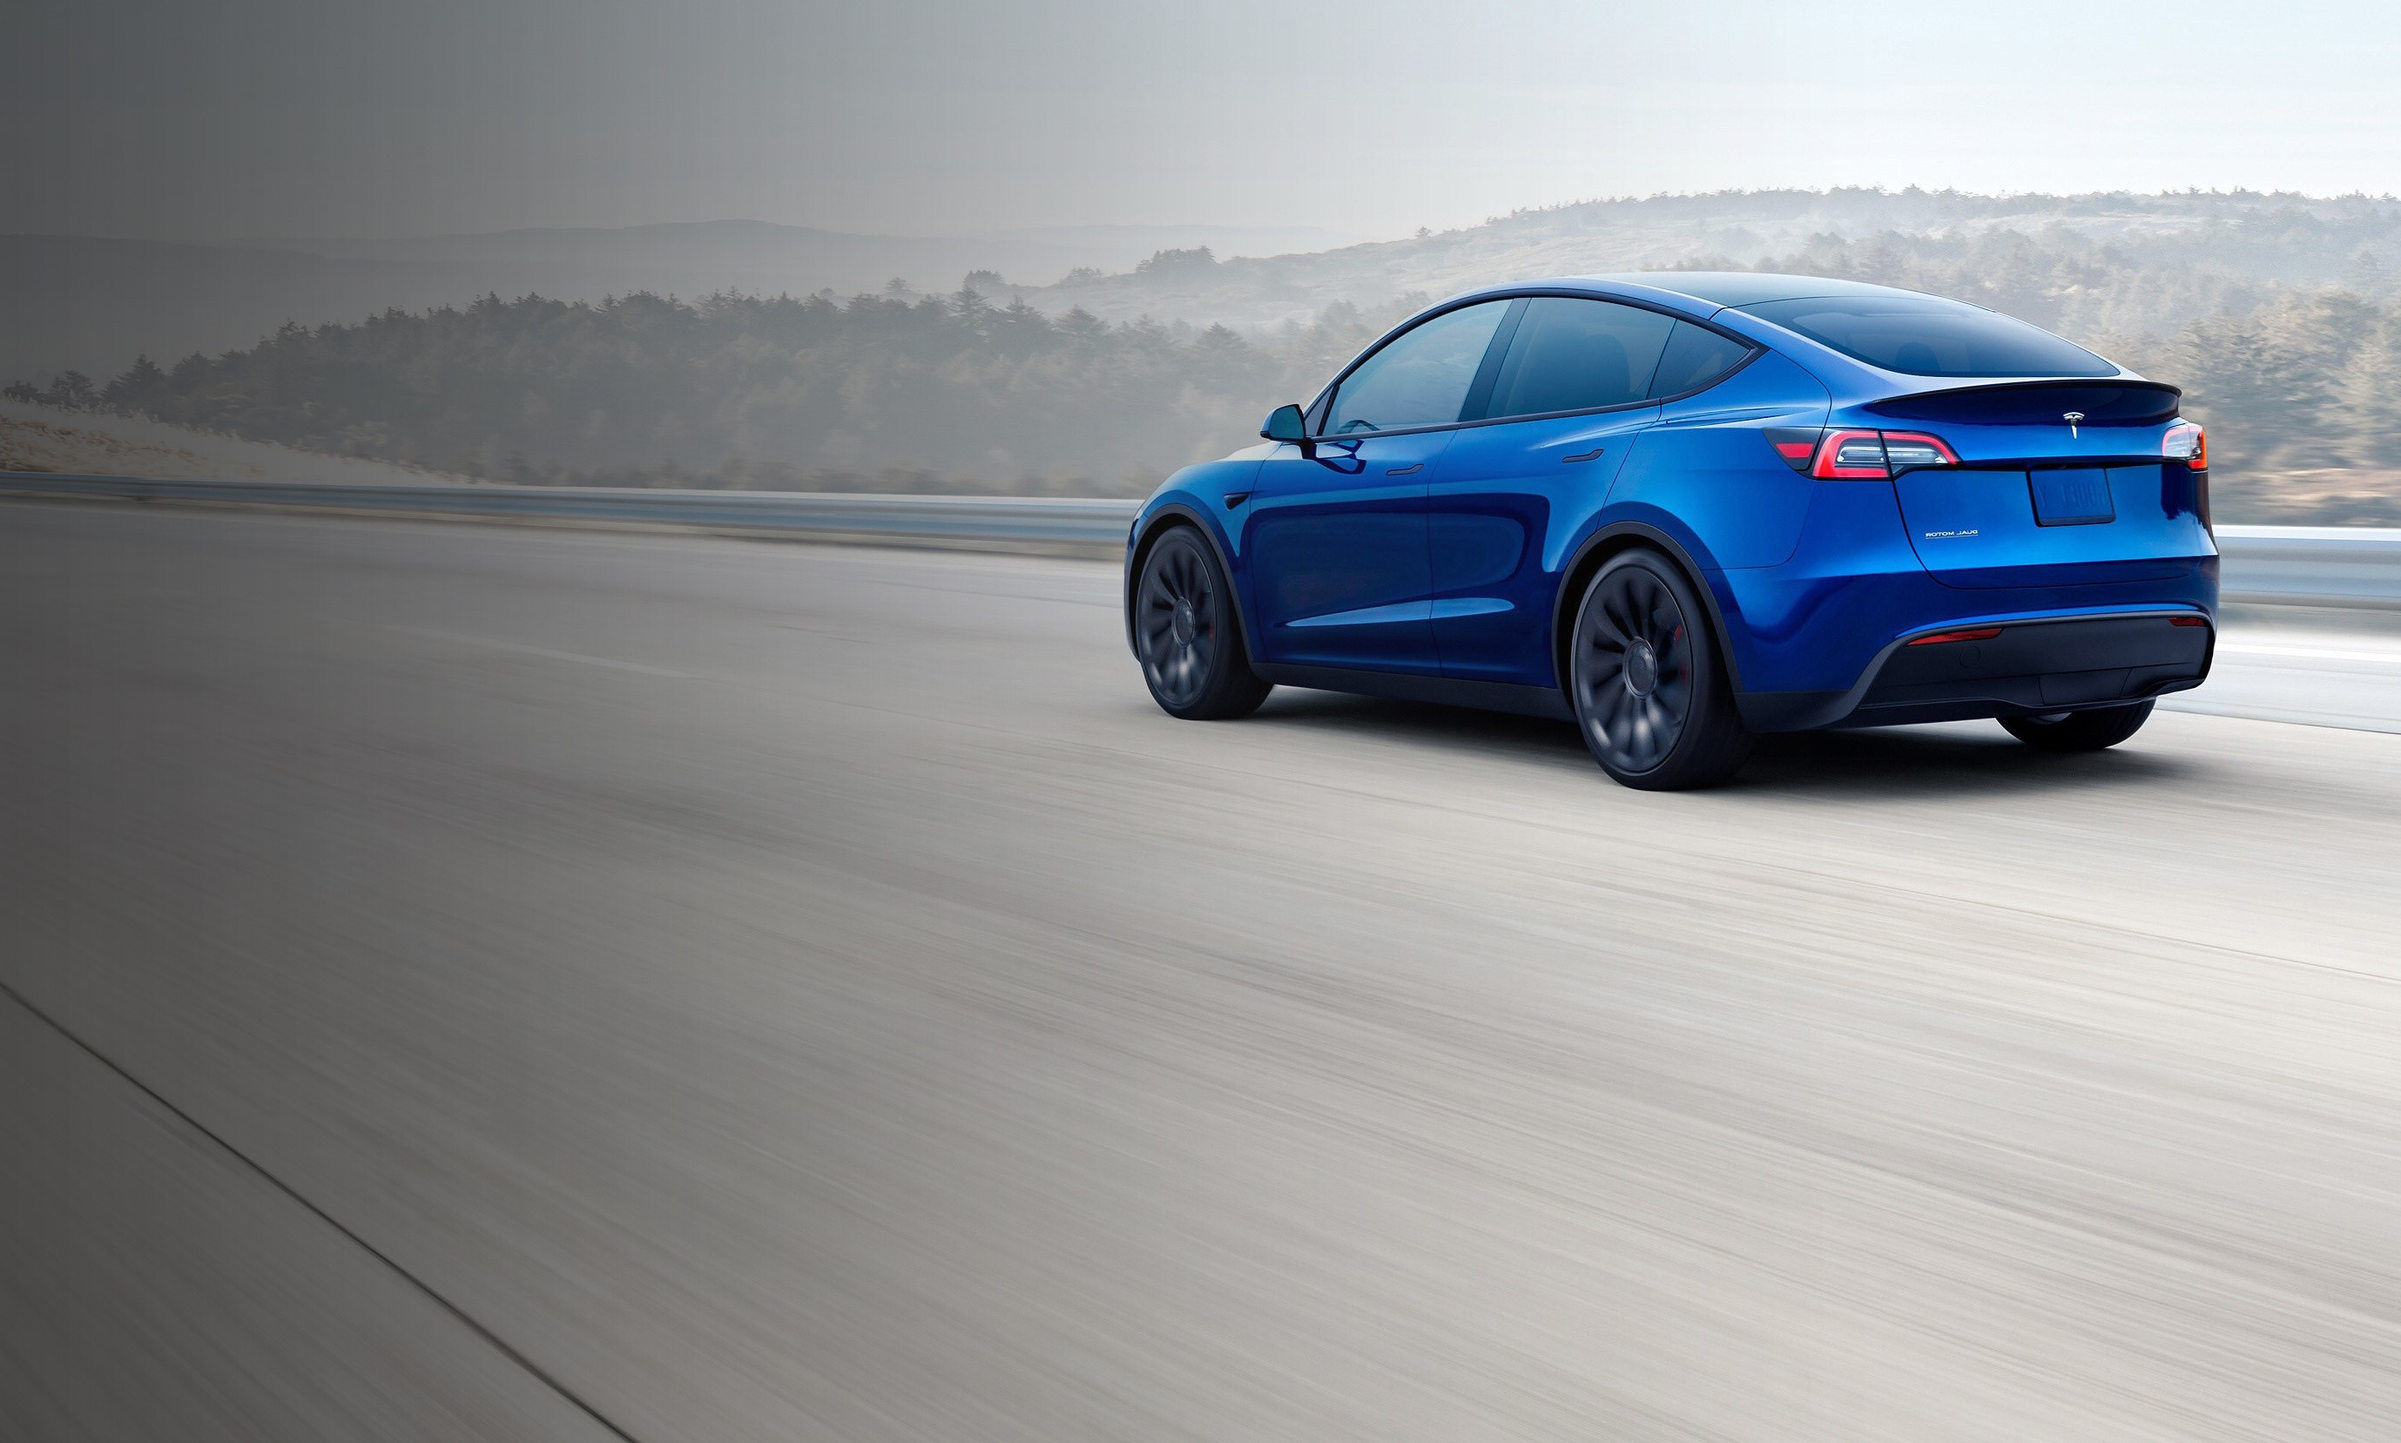
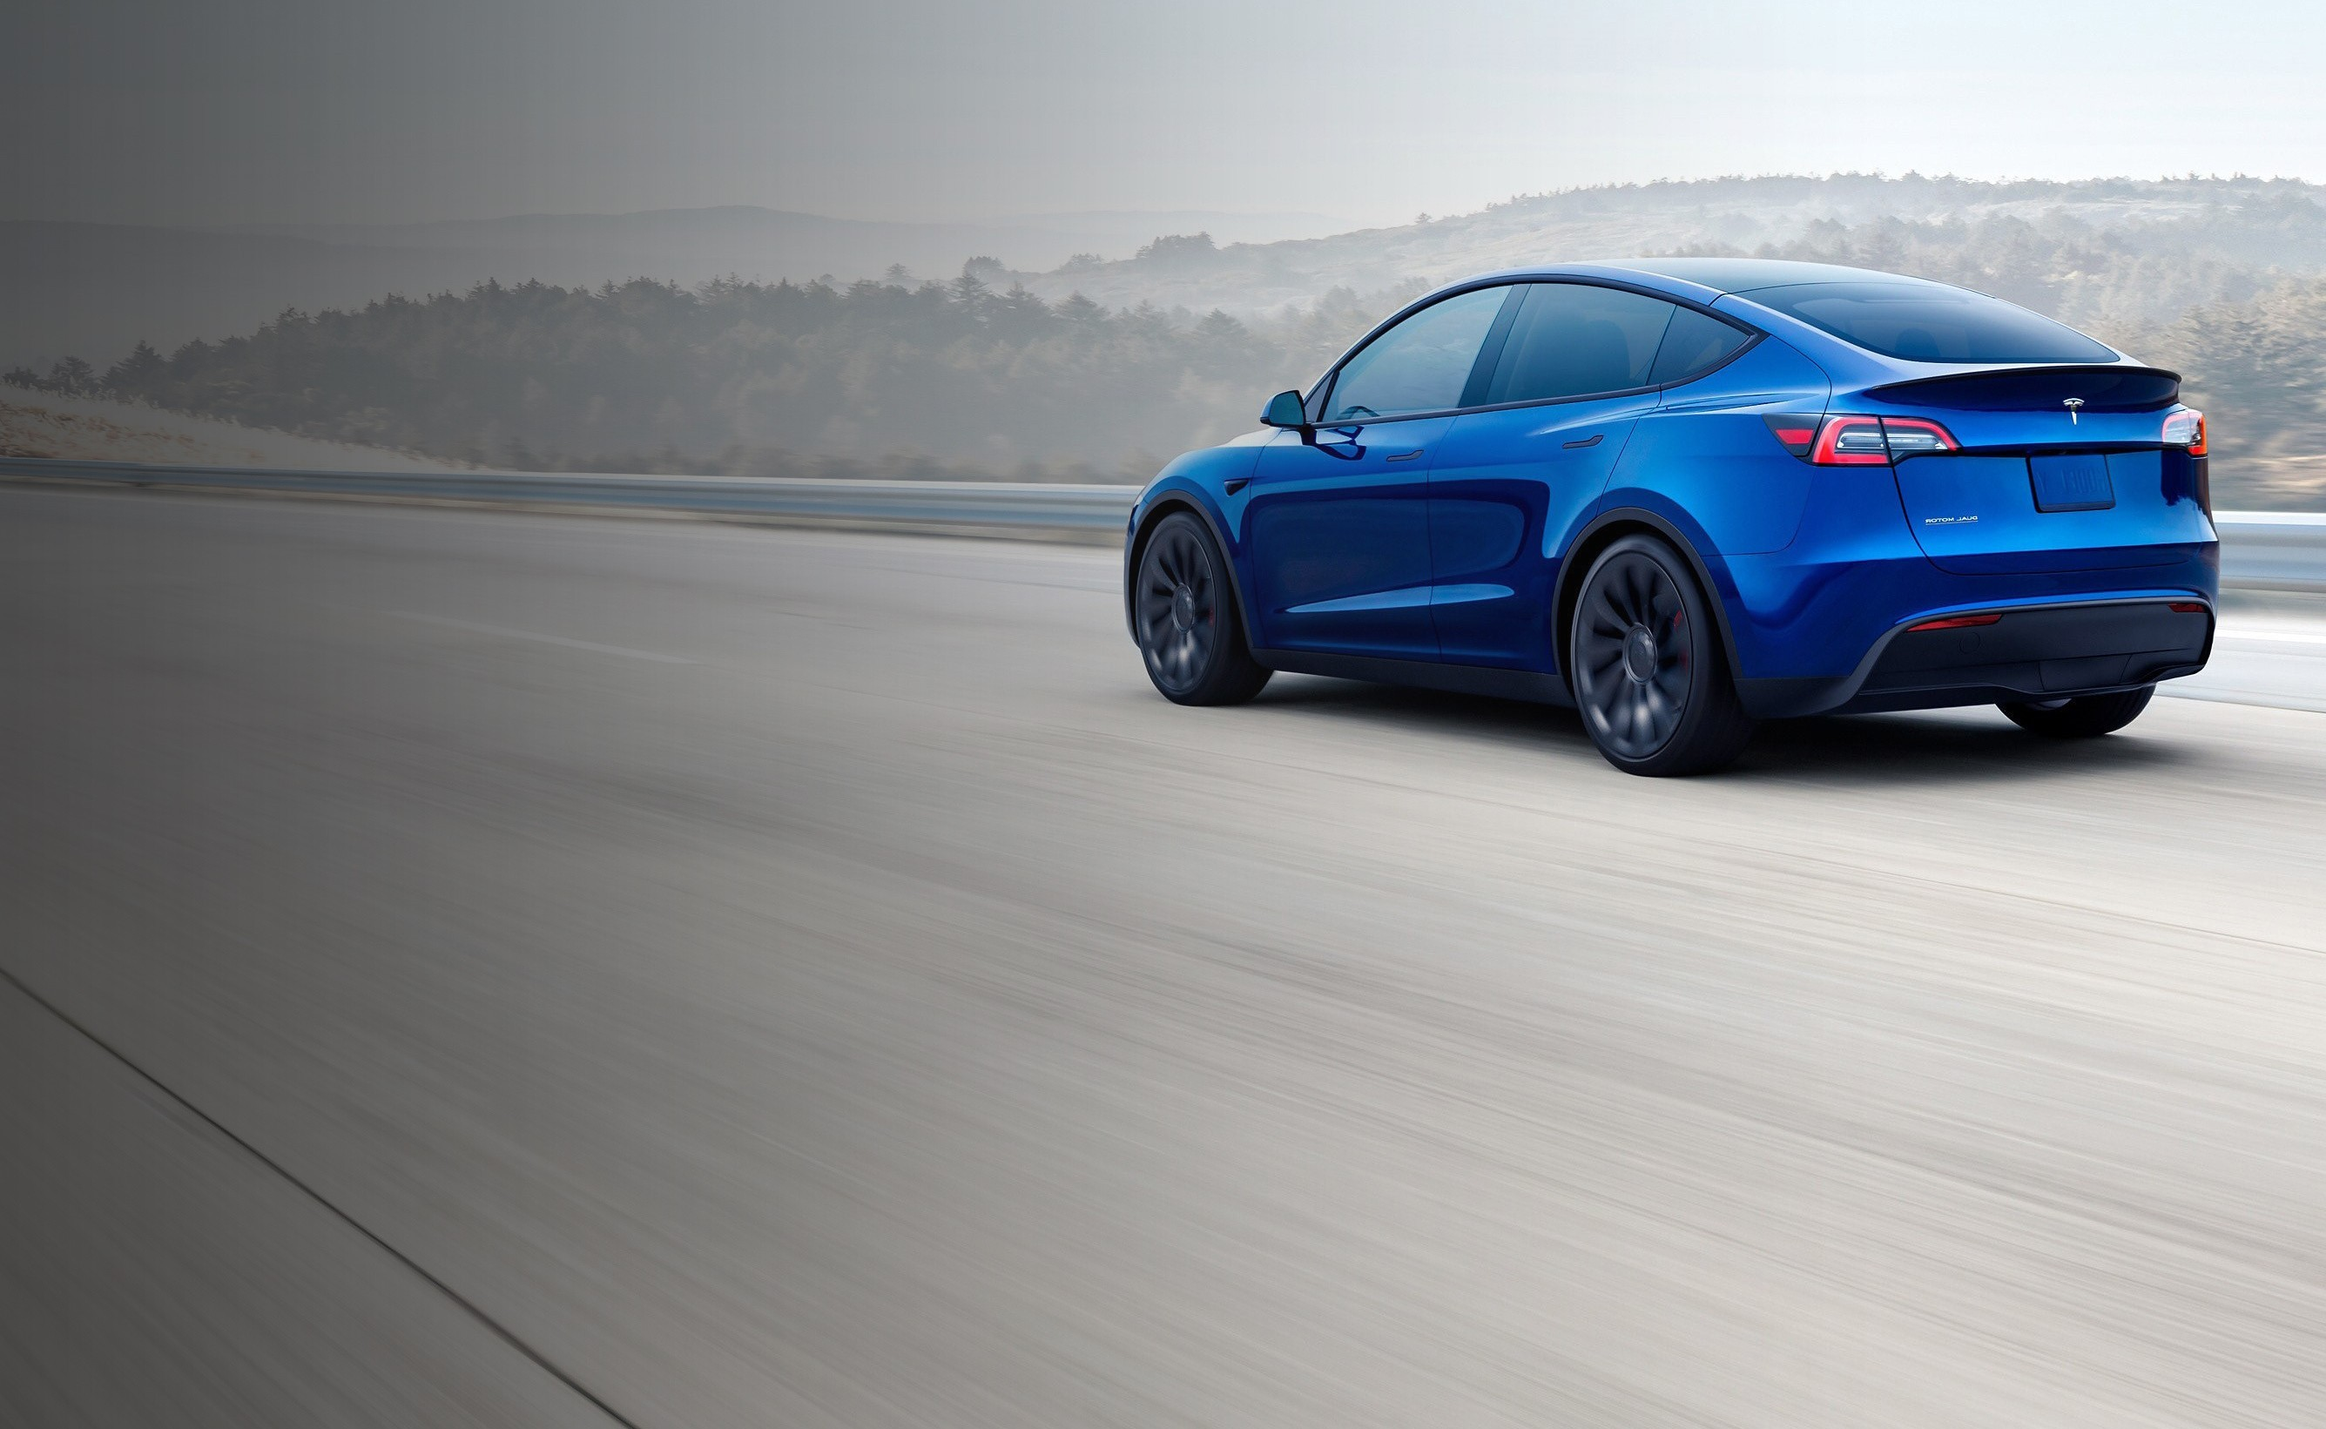
add services section

diff --git a/src/app/components/Services.tsx b/src/app/components/Services.tsx
@@ -1,0 +1,153 @@
+import Image from "next/image"
+import servicesImage from "../../../public/images/Services/service2.jpg"
+
+export default function Services() {
+    return(
+
+<div className="custom-container text-project-blue px-4 sm:px-6 lg:px-8">
+    <h2 className="text-3xl sm:text-4xl lg:text-6xl font-semibold uppercase mb-8 sm:mb-12 text-center lg:text-left">
+        Пакети послуг
+    </h2>
+
+    <div className="max-w-7xl mx-auto mb-16">
+        <div className="bg-white rounded-lg shadow-lg overflow-hidden">
+            <div className="flex flex-col lg:flex-row">
+                <div className="w-full lg:w-1/3 p-4 sm:p-6">
+                    <div className="aspect-square w-full max-w-sm mx-auto lg:max-w-none">
+                        <Image
+                            className="border border-solid border-project-blue p-3 w-full h-full object-cover rounded-lg"
+                            src={servicesImage}
+                            alt="service"
+                        />
+                    </div>
+                    <div className="mt-6 text-center lg:hidden">
+                        <h4 className="font-bold text-2xl sm:text-3xl mb-2">Пакет "Базовий"</h4>
+                        <p className="font-bold text-xl sm:text-2xl">
+                            Ціна: <bdi>500</bdi> $
+                        </p>
+                    </div>
+                </div>
+                <div className="flex-1 p-4 sm:p-6 lg:p-8">
+                    <div className="hidden lg:block mb-6">
+                        <h4 className="font-bold text-3xl xl:text-4xl mb-3">Пакет "Базовий"</h4>
+                        <p className="font-bold text-2xl xl:text-3xl">
+                            Ціна: <bdi>500</bdi> $
+                        </p>
+                    </div>
+                    <div className="mb-6 sm:mb-8">
+                        <p className="text-sm sm:text-base lg:text-lg leading-relaxed">
+                            Базовий пакет для тих, хто хоче самостійно займатися ремонтом та оформленням, але
+                            цінує професійний супровід на етапі покупки та доставки.
+                        </p>
+                    </div>
+                    <div className="mb-6 sm:mb-8">
+                        <h4 className="font-bold text-lg sm:text-xl lg:text-2xl mb-4">
+                            Що входить:
+                        </h4>
+                        <ul className="space-y-2 sm:space-y-3">
+                            <li className="flex items-start text-sm sm:text-base lg:text-lg">
+                                <span className="font-bold mr-3">•</span>
+                                <span>Пошук і перевірка лотів перед торгами</span>
+                            </li>
+                            <li className="flex items-start text-sm sm:text-base lg:text-lg">
+                                <span className="font-bold mr-3">•</span>
+                                <span>Участь в аукціоні</span>
+                            </li>
+                            <li className="flex items-start text-sm sm:text-base lg:text-lg">
+                                <span className="font-bold mr-3">•</span>
+                                <span>Організація логістики: США – порт – Україна – ваше місто</span>
+                            </li>
+                        </ul>
+                    </div>
+                    <div>
+                        <h4 className="font-bold text-lg sm:text-xl lg:text-2xl mb-3 sm:mb-4">
+                            Результат:
+                        </h4>
+                        <p className="text-sm sm:text-base lg:text-lg leading-relaxed">
+                            Ви отримуєте придбане авто, ключі та документи у своєму місті. Далі — ремонтуєте та реєструєте самостійно.
+                        </p>
+                    </div>
+                </div>
+            </div>
+        </div>
+    </div>
+
+    <div className="max-w-7xl mx-auto mb-16">
+        <div className="bg-white rounded-lg shadow-lg overflow-hidden">
+            <div className="flex flex-col lg:flex-row">
+                <div className="w-full lg:w-1/3 p-4 sm:p-6">
+                    <div className="aspect-square w-full max-w-sm mx-auto lg:max-w-none">
+                        <Image
+                            className="border border-solid border-project-blue p-3 w-full h-full object-cover rounded-lg"
+                            src={servicesImage}
+                            alt="service"
+                        />
+                    </div>
+                    <div className="mt-6 text-center lg:hidden">
+                        <h4 className="font-bold text-2xl sm:text-3xl mb-2">Пакет "Під ключ з ремонтом"</h4>
+                        <p className="font-bold text-xl sm:text-2xl">
+                            Ціна: <bdi>1000</bdi> $
+                        </p>
+                    </div>
+                </div>
+                <div className="flex-1 p-4 sm:p-6 lg:p-8">
+                    <div className="hidden lg:block mb-6">
+                        <h4 className="font-bold text-3xl xl:text-4xl mb-3">Пакет "Під ключ з ремонтом"</h4>
+                        <p className="font-bold text-2xl xl:text-3xl">
+                            Ціна: <bdi>1000</bdi> $
+                        </p>
+                    </div>
+                    <div className="mb-6 sm:mb-8">
+                        <p className="text-sm sm:text-base lg:text-lg leading-relaxed">
+                            Пакет для тих, хто хоче отримати готове, відновлене авто без клопотів та візитів на
+                            станції техобслуговування. Ведення всіх етапів відновлення ми беремо на себе.
+                        </p>
+                    </div>
+                    <div className="mb-6 sm:mb-8">
+                        <h4 className="font-bold text-lg sm:text-xl lg:text-2xl mb-4">
+                            Що входить:
+                        </h4>
+                        <ul className="space-y-2 sm:space-y-3">
+                            <li className="flex items-start text-sm sm:text-base lg:text-lg">
+                                <span className="font-bold mr-3">•</span>
+                                <span>Всі послуги з пакету «Базовий»</span>
+                            </li>
+                            <li className="flex items-start text-sm sm:text-base lg:text-lg">
+                                <span className="font-bold mr-3">•</span>
+                                <span>Доставка авто в Київ</span>
+                            </li>
+                            <li className="flex items-start text-sm sm:text-base lg:text-lg">
+                                <span className="font-bold mr-3">•</span>
+                                <span>Організація ремонту, підбір і доставка запчастин</span>
+                            </li>
+                            <li className="flex items-start text-sm sm:text-base lg:text-lg">
+                                <span className="font-bold mr-3">•</span>
+                                <span>Детейлінг, технічне обслуговування</span>
+                            </li>
+                            <li className="flex items-start text-sm sm:text-base lg:text-lg">
+                                <span className="font-bold mr-3">•</span>
+                                <span>Сертифікація та постановка на облік (за потреби)</span>
+                            </li>
+                        </ul>
+                    </div>
+                    <div>
+                        <h4 className="font-bold text-lg sm:text-xl lg:text-2xl mb-3 sm:mb-4">
+                            Результат:
+                        </h4>
+                        <p className="text-sm sm:text-base lg:text-lg leading-relaxed">
+                            Ви отримуєте чистий, відновлений автомобіль, повністю готовий до експлуатації.
+                        </p>
+                    </div>
+                </div>
+            </div>
+        </div>
+    </div>
+
+    <div className="h-px w-3/4 mx-auto bg-opacity-30 bg-project-blue"></div>
+    <div className="text-xl text-center flex flex-col gap-y-5 mt-5">
+        <p className="font-bold">Обидва пакети передбачають постійний зв'язок, прозору комунікацію і фокус на результат.</p>
+        <p>Обирайте рівень залучення, який вам зручний — усе інше ми беремо на себе.</p>
+    </div>
+</div>
+    )
+}

diff --git a/src/app/page.tsx b/src/app/page.tsx
@@ -1,25 +1,31 @@
 import Image from "next/image"
 import Hero from "./components/Hero"
-import heroBackground from "../../public/images/hero-background.jpg"
+import heroBackground from "../../public/images/hero-background2.jpg"
+import Services from "./components/Services"
 
 export default function Home() {
   return (
-    <section className="relative min-h-screen text-project-white vsm:pt-32 md:pt-64 pb-20">
-      <Image
-        src={heroBackground}
-        alt="Hero Background"
-        priority
-        quality={100}
-        fill
-        sizes="100vw"
-        style={{
-          objectFit: "cover",
-          objectPosition: "center"
-        }}
-      />
-      <div className="relative z-10">
-        <Hero/>
-      </div>
-    </section>
+    <>
+      <section className="relative min-h-screen text-project-white vsm:pt-32 md:pt-64 pb-20">
+        <Image
+          src={heroBackground}
+          alt="Hero Background"
+          priority
+          quality={100}
+          fill
+          sizes="100vw"
+          style={{
+            objectFit: "cover",
+            objectPosition: "bottom right"
+          }}
+        />
+        <div className="relative z-10">
+          <Hero/>
+        </div>
+      </section>
+      <section className="min-h-screen py-28 bg-project-white" id="services">
+          <Services/>
+      </section>
+    </>
   )
 }

diff --git a/src/app/components/Hero.tsx b/src/app/components/Hero.tsx
@@ -59,7 +59,7 @@ export default function Hero() {
                 </div>
                 <div className="bg-project-blue w-full rounded-3xl bg-opacity-90 shadow-2xl">
                   <p className="text-center font-bold text-project-dark bg-project-white
-                    vsm:text-xl msm:text-2xl md:text-3xl lg:text-4xl p-5 rounded-t-3xl mb-4"
+                    vsm:text-xl msm:text-2xl md:text-3xl lg:text-4xl p-5 rounded-t-3xl "
                   >
                     Розкажіть про авто яке вам цікаве та оберіть свій подарунок! 🎁
                   </p>

diff --git a/src/app/components/ChooseCar/ChooseCar.tsx b/src/app/components/ChooseCar/ChooseCar.tsx
@@ -72,8 +72,9 @@ export default function ChooseCar() {
                 speed={850}
                 navigation={true}
                 modules={[ Navigation]}
+                autoHeight
                 className="mySwiper"
-                style={{ width: '100%' }}
+                style={{ width: '100%', padding: "15px" }}
                 onSwiper={(swiper) => (swiperRef.current = swiper)}
             >
                 

diff --git a/src/app/components/Header.tsx b/src/app/components/Header.tsx
@@ -32,7 +32,7 @@ export default function Header() {
     }, [])
 
     const navItems = [
-        { name: "Послуги", href: "/" },
+        { name: "Послуги", href: "/#services" },
         { name: "Кейси", href: "/" },
         { name: "Про нас", href: "/" },
         { name: "Блог", href: "/" },

diff --git a/src/app/globals.css b/src/app/globals.css
@@ -154,6 +154,6 @@ body {
   font-family: var(--font-montserrat), sans-serif;
 }
 
-.dsdas {
-  color: rgb(51, 51, 51);
+html {
+  scroll-behavior: smooth;
 }
